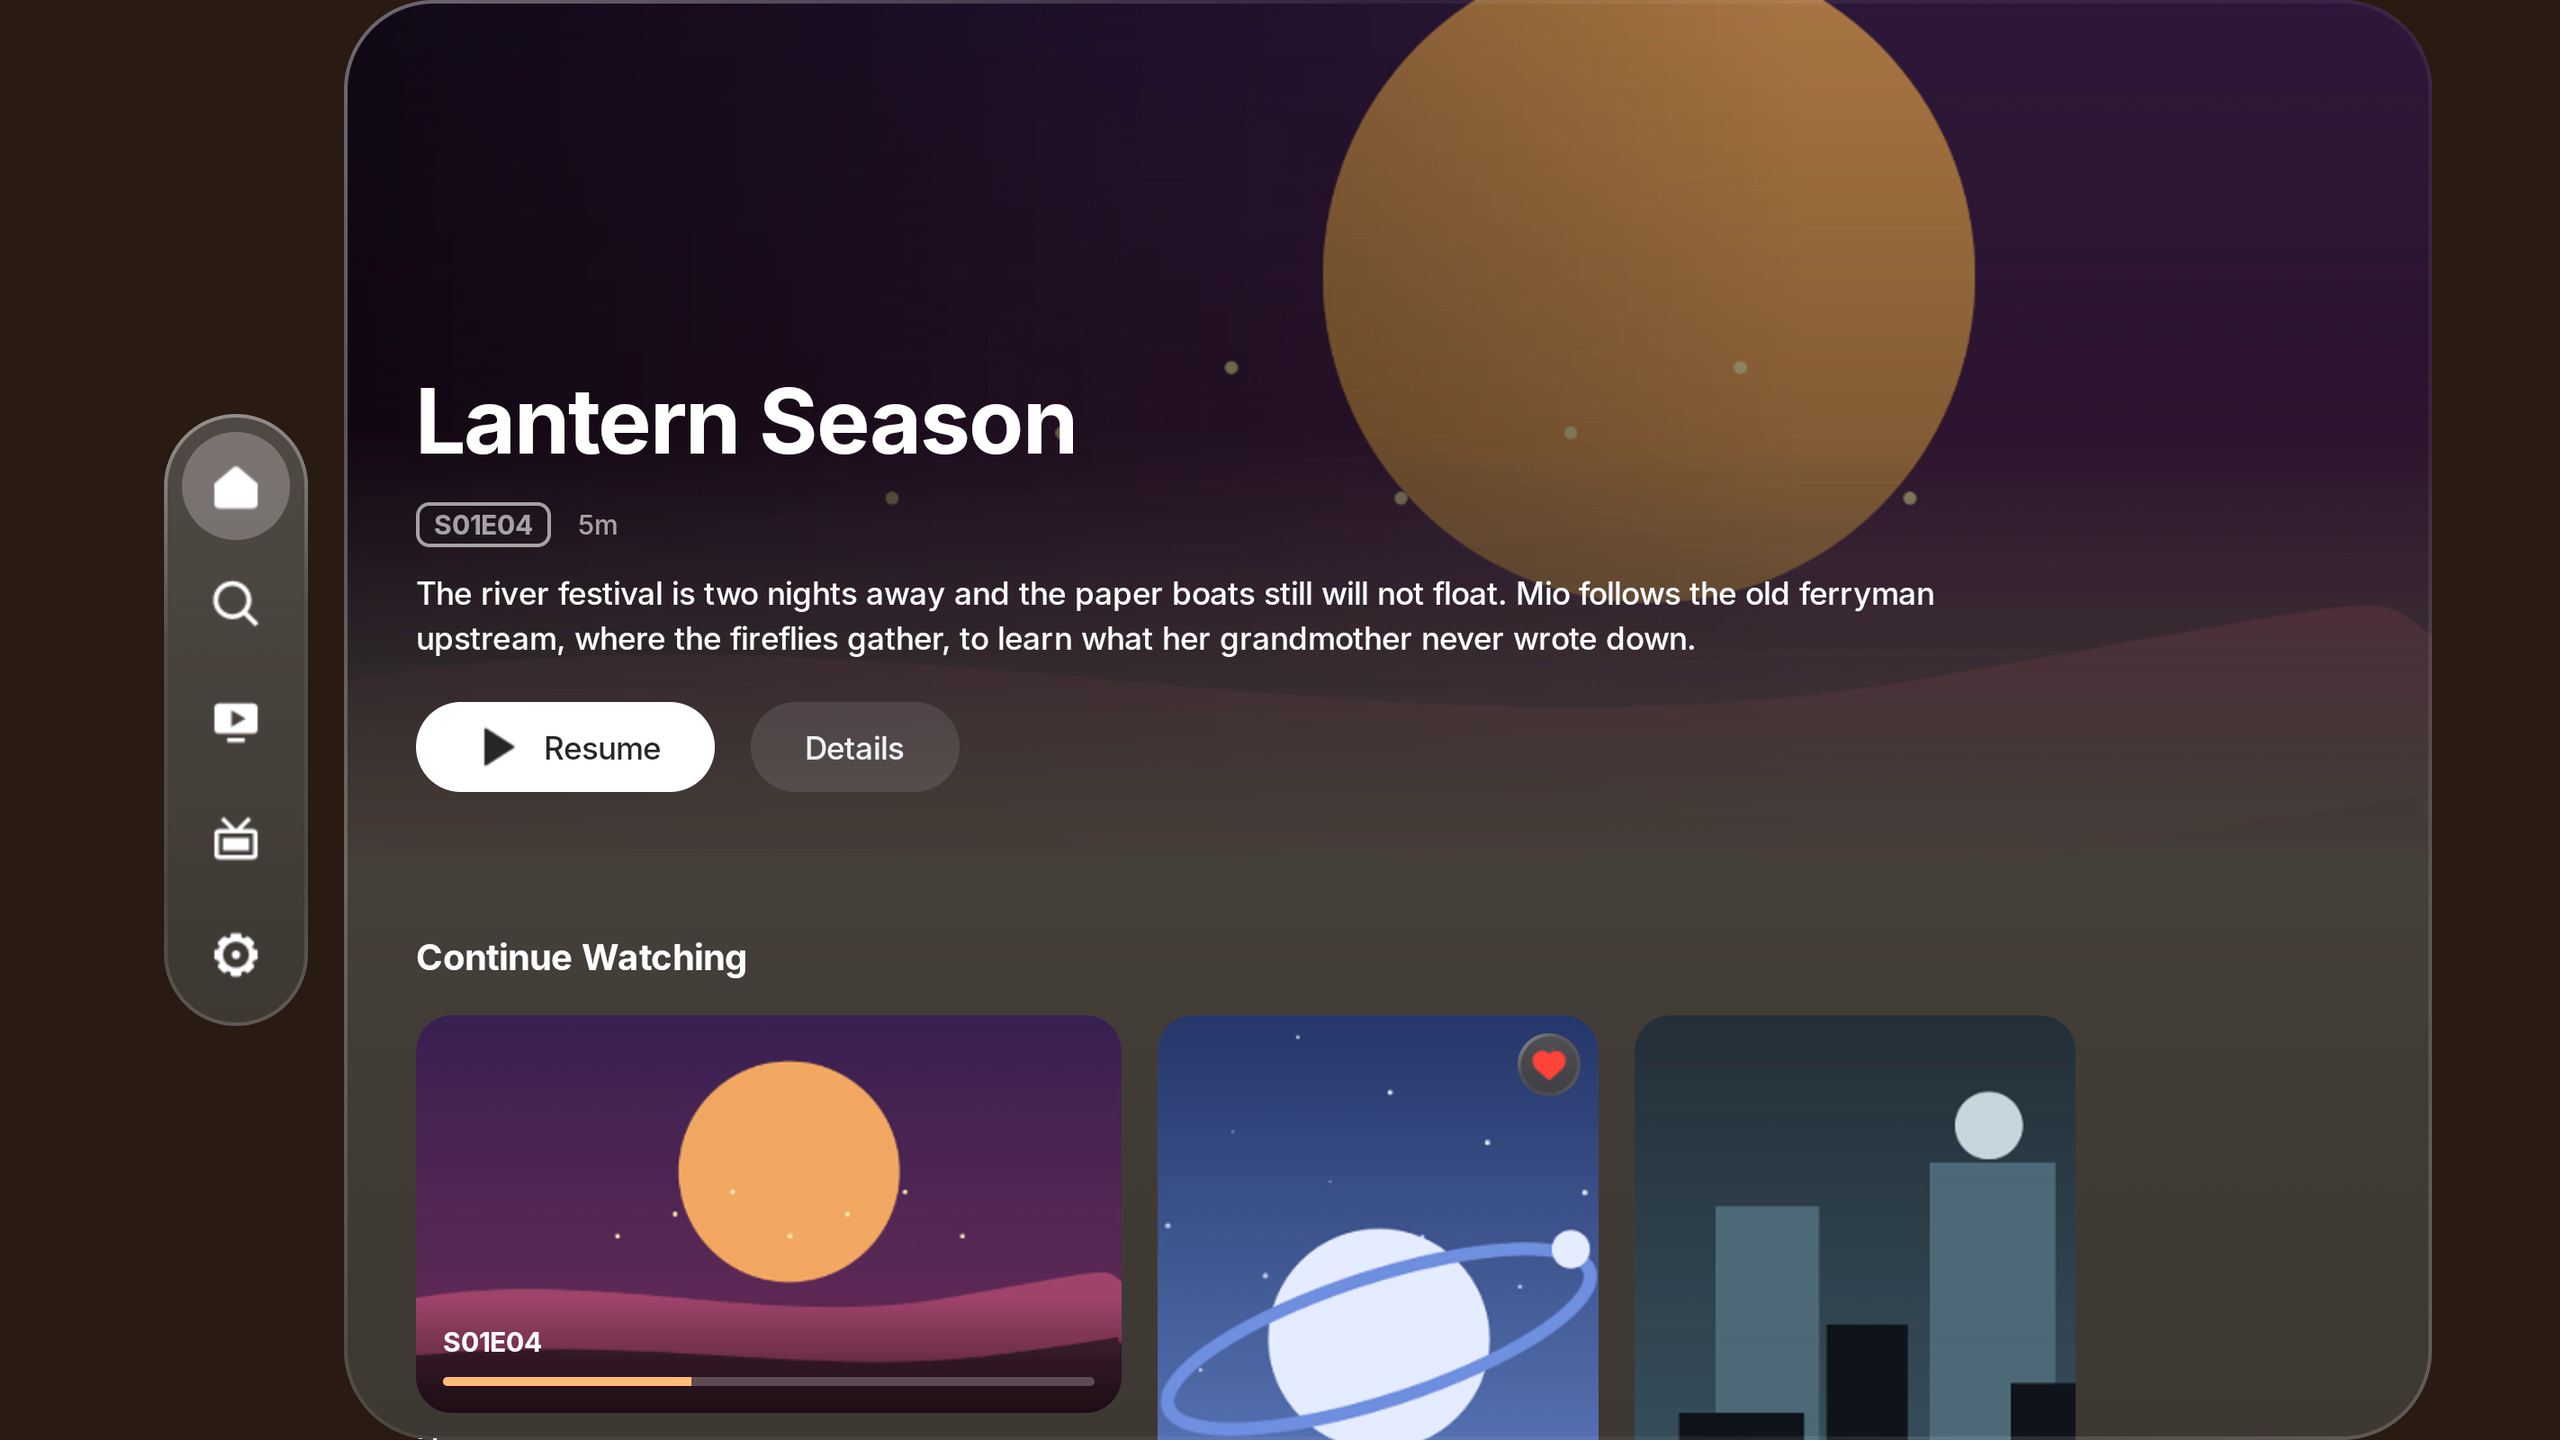
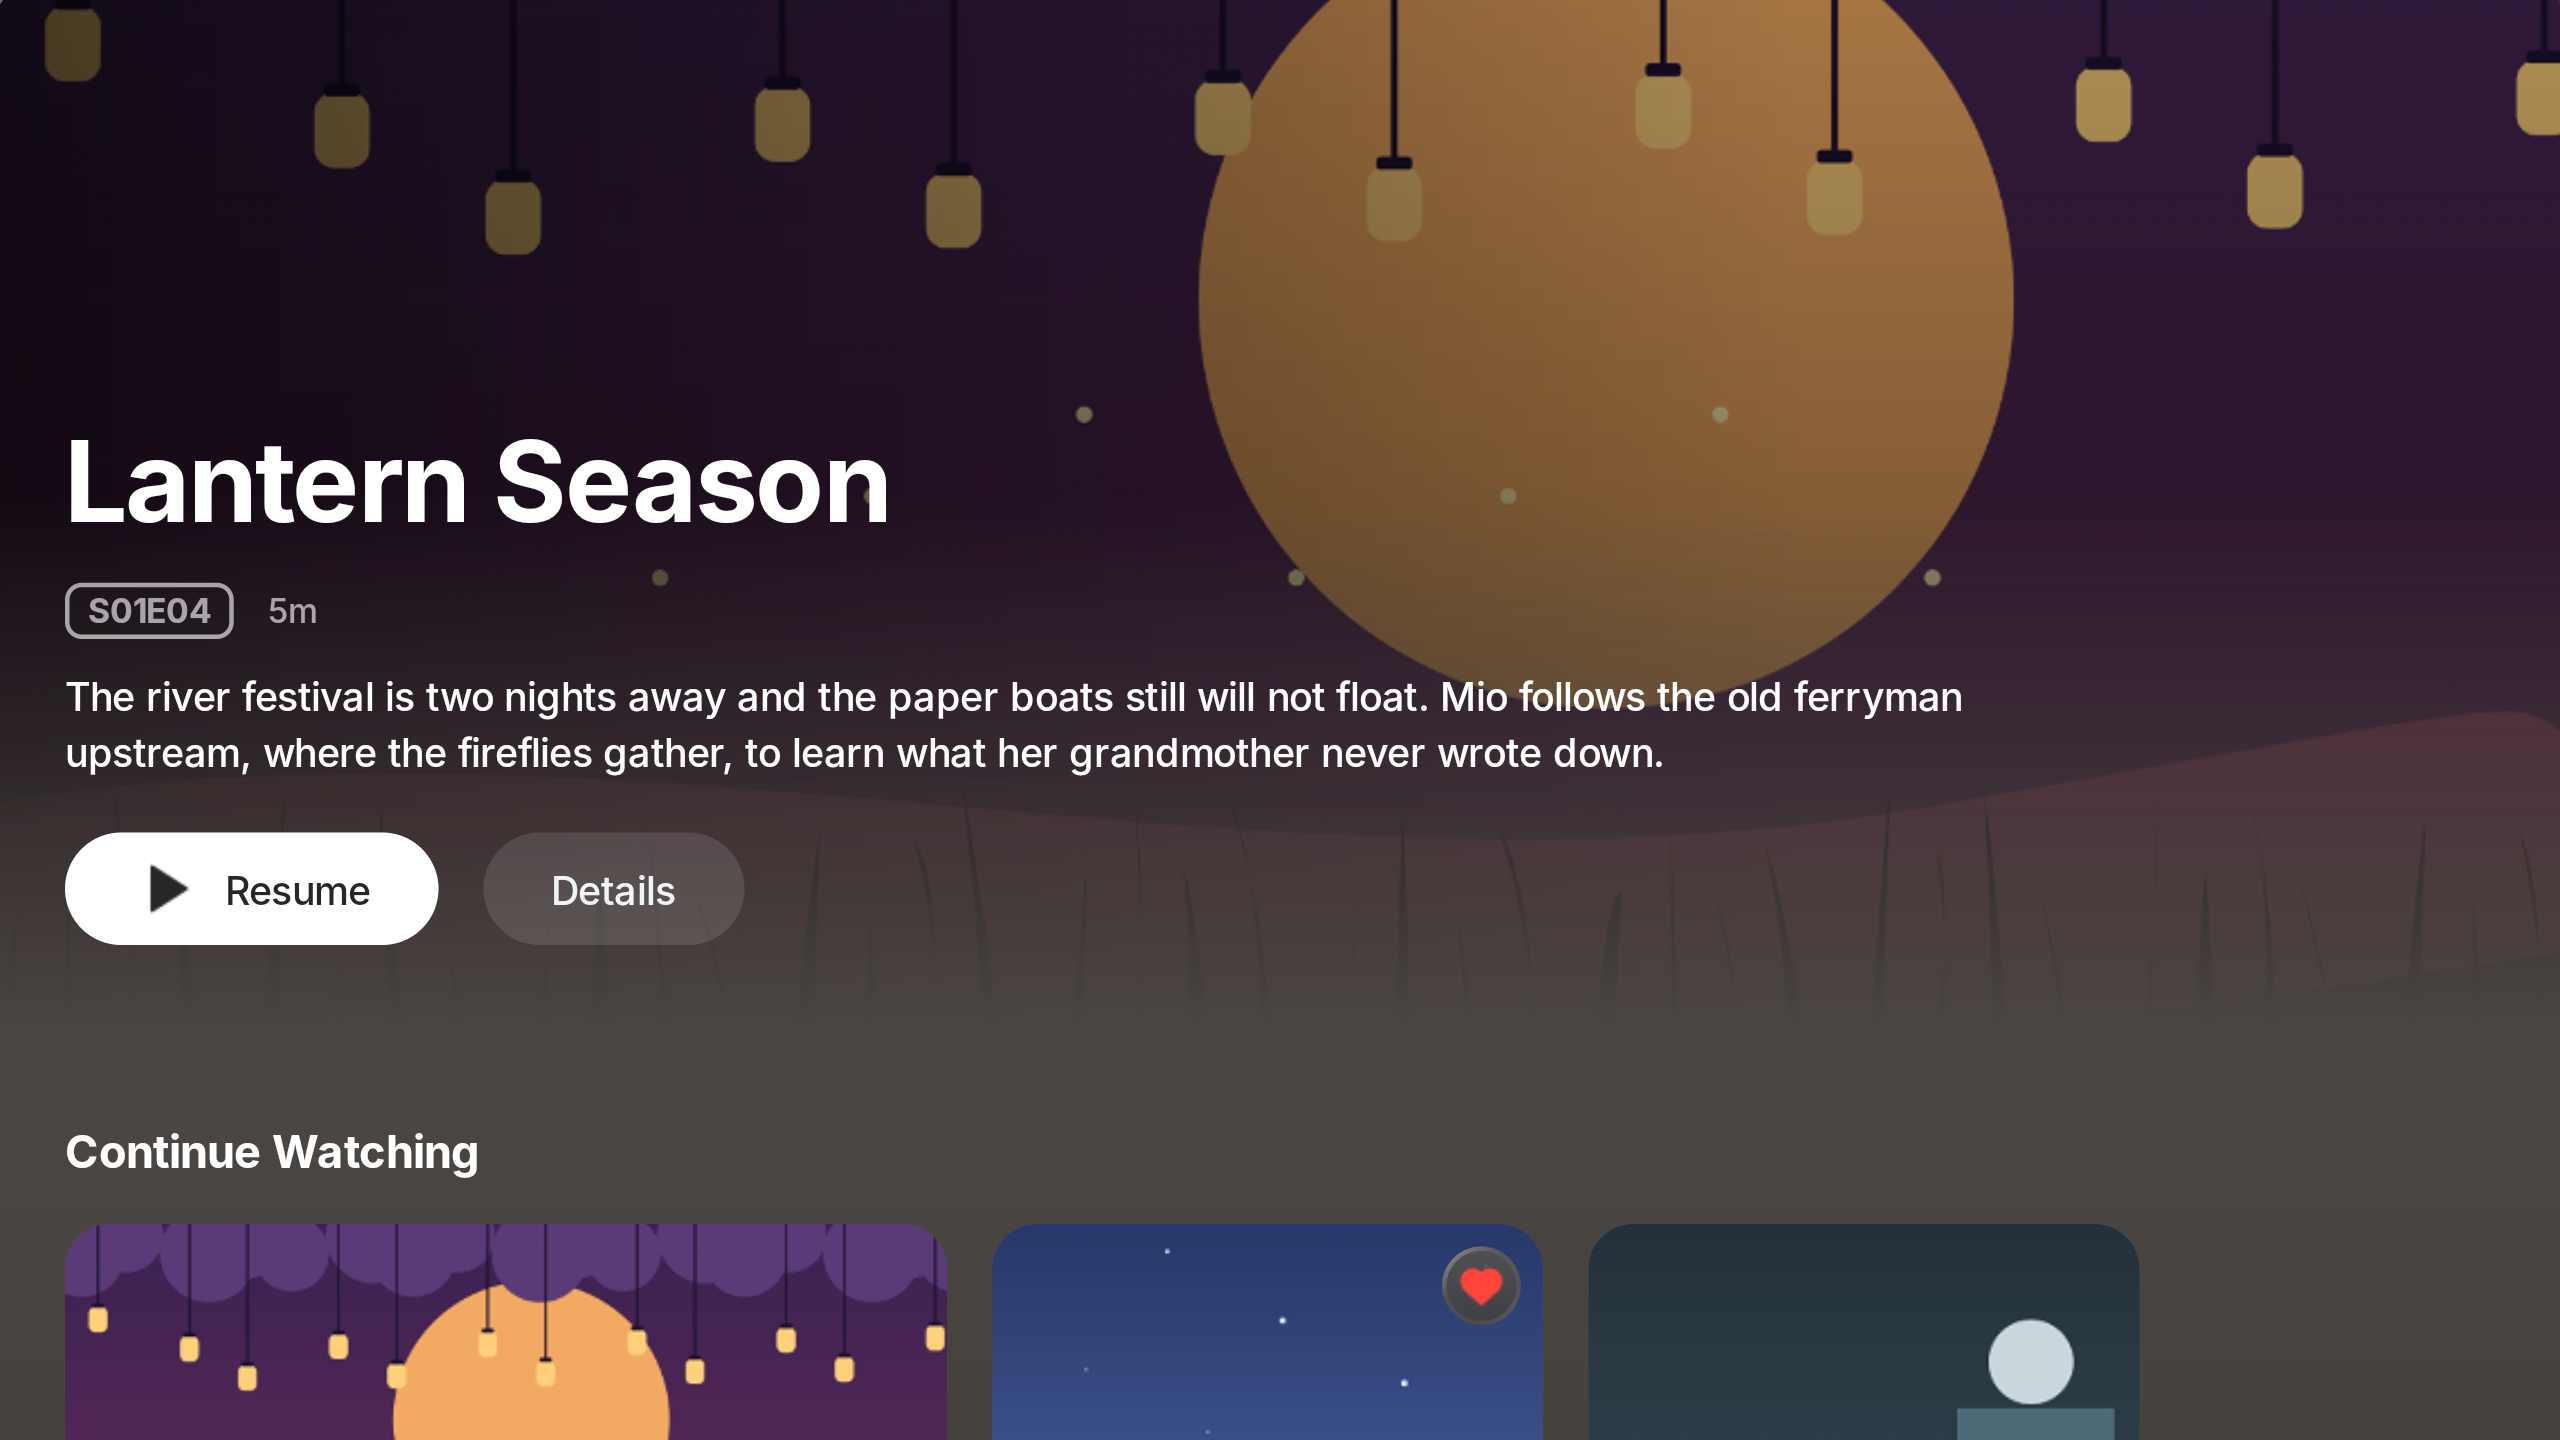
fix: retake the store screenshots with no plain strip along an edge
Meta's review rejected all five for empty borders: the browse shots sat on side bands and the demo video had plain sky and ground at its top and bottom.

diff --git a/README.md b/README.md
@@ -69,20 +69,21 @@ Meta requires real captures from the headset, so `store/screenshot-1.png` to `-5
    tools/quest-deploy.ps1 -Server http://127.0.0.1:8196 -User Demo -Password <password>
    ```
 
-4. Capture, tapping with `tools/quest-dev.ps1 tap` in dp:
-   - Home, the Movies tab, Perihelion's details, and Lantern Season S01E04 playing in the window with its controls shown: `tools/quest-dev.ps1 capture -Scale 2` each, which redraws the window at 2560x1600 with the video frame under it into `build/quest-run/window.png`.
-   - The cinema: Watch in immersive with the SRT track on, set the screen to 5.6 m and `tools/quest-dev.ps1 recenter`, then open Cinema settings and grow the screen to about 9.3 m so it fills the eye without moving back. Wait for a subtitle, then take the headset's own screenshot, one undistorted eye at 1440x1440, written to `/sdcard/Oculus/Screenshots`:
+4. Capture, tapping with `tools/quest-dev.ps1 tap` in dp (the window is 1024x640 dp, the cinema's controls 640 dp wide). `capture -Scale <n>` redraws the window at n times its 1280x800 pixels, with the video frame under it, into `build/quest-run/window.png`:
+   - Home and Perihelion's details at `-Scale 2.25`, the Movies tab scrolled up about 100 dp at `-Scale 2.56`, and Lantern Season S01E04 playing in the window with its controls shown at `-Scale 2`.
+   - The cinema: Watch in immersive with the SRT track on, pause on a subtitle, set the screen to about 5.5 m in Cinema settings and `tools/quest-dev.ps1 recenter`, then grow the screen to about 9 m so it fills the eye without moving back. The headset has to sit level and face straight ahead, or the screen comes out skewed. Take the headset's own screenshot, one undistorted eye at 1440x1440, written to `/sdcard/Oculus/Screenshots`:
 
      ```bash
      adb shell am startservice -n com.oculus.metacam/.capture.CaptureService -a TAKE_SCREENSHOT
      ```
 
-5. Frame at 2560x1440 without adding anything: the browse shots fit on the store art's dark brown, the player is cropped to its 16:9 video, and the cinema eye is cropped to the 16:9 band inside the screen (`crop=1440:810:0:520`) and scaled up. Meta's pre-check rejects a screenshot with empty borders (VRC.Quest.Asset.5), so no black surroundings may show; the controls panel sits below the screen and cannot be in the frame.
+5. Crop to 2560x1440 without adding or scaling anything in the window shots. Meta's review rejects a screenshot with a plain strip along any edge as having "empty borders" (VRC.Quest.Asset.5), so every edge has to cut through artwork or controls: the browse shots are cropped inside the app's panel, leaving out the rail and the rounded corners, the Movies shot runs from inside the first poster column to inside the last, the player is cropped to its 16:9 video, and the cinema eye is cropped to a 16:9 band inside the screen and scaled up. The controls panel sits below the cinema screen and cannot be in the frame.
 
    ```bash
-   ffmpeg -f lavfi -i color=c=0x2A1C14:s=2560x1440 -i window.png -filter_complex "[1]scale=2304:1440:flags=lanczos[w];[0][w]overlay=128:0,format=rgb24" -frames:v 1 store/screenshot-1.png
+   ffmpeg -i home.png -vf "crop=2560:1440:295:45,format=rgb24" store/screenshot-1.png      # details the same, as screenshot-3
+   ffmpeg -i movies.png -vf "crop=2560:1440:512:282,format=rgb24" store/screenshot-2.png
    ffmpeg -i player.png -vf "crop=2560:1440:0:80,format=rgb24" store/screenshot-4.png
-   ffmpeg -i eye.jpg -vf "crop=1440:810:0:<top>,scale=2560:1440:flags=lanczos,format=rgb24" store/screenshot-5.png
+   ffmpeg -i eye.jpg -vf "crop=1296:729:<left>:<top>,scale=2560:1440:flags=lanczos,format=rgb24" store/screenshot-5.png
    ```
 
 6. Afterwards: Settings, Switch user, and pick the headset's usual account; `adb shell setprop debug.oculus.guardian_pause 0`; `adb reverse --remove tcp:8196`; delete the screenshots on the headset; stop the server and delete it and the library.
